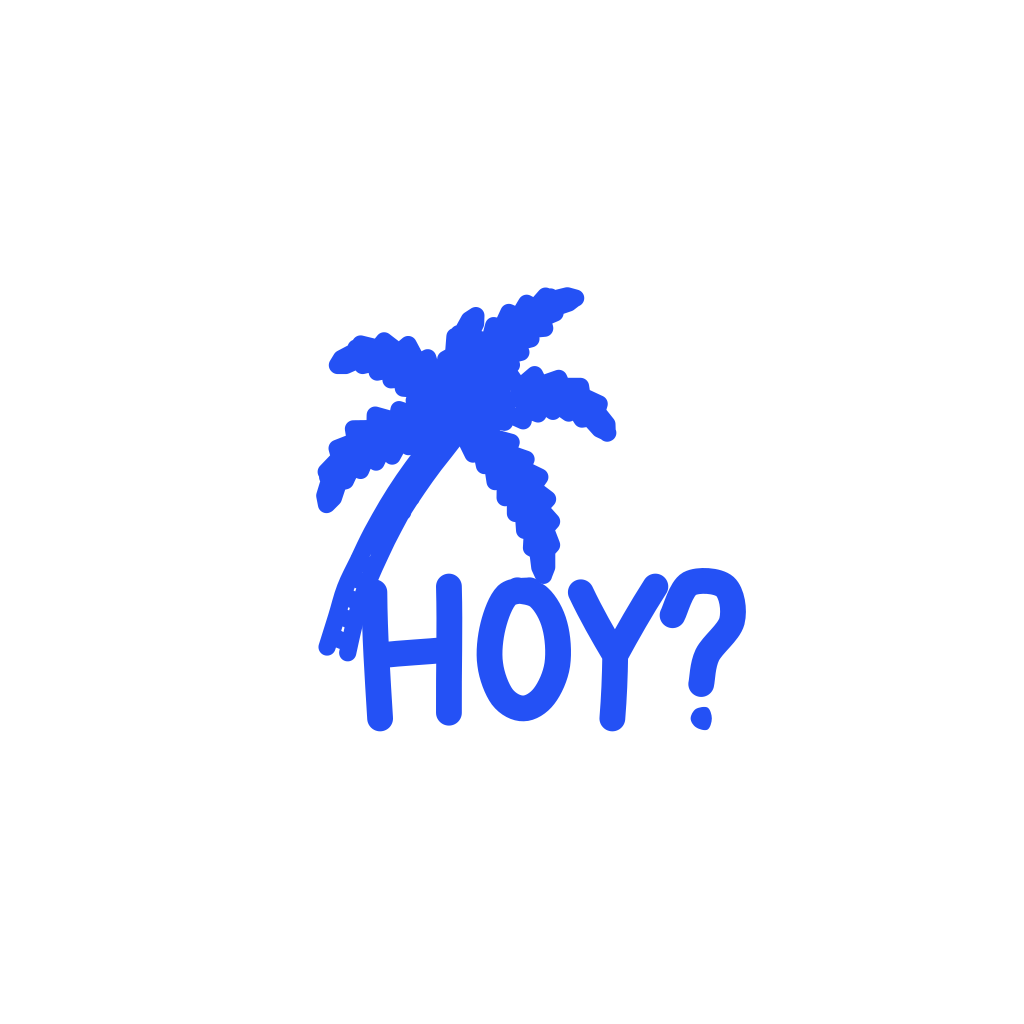
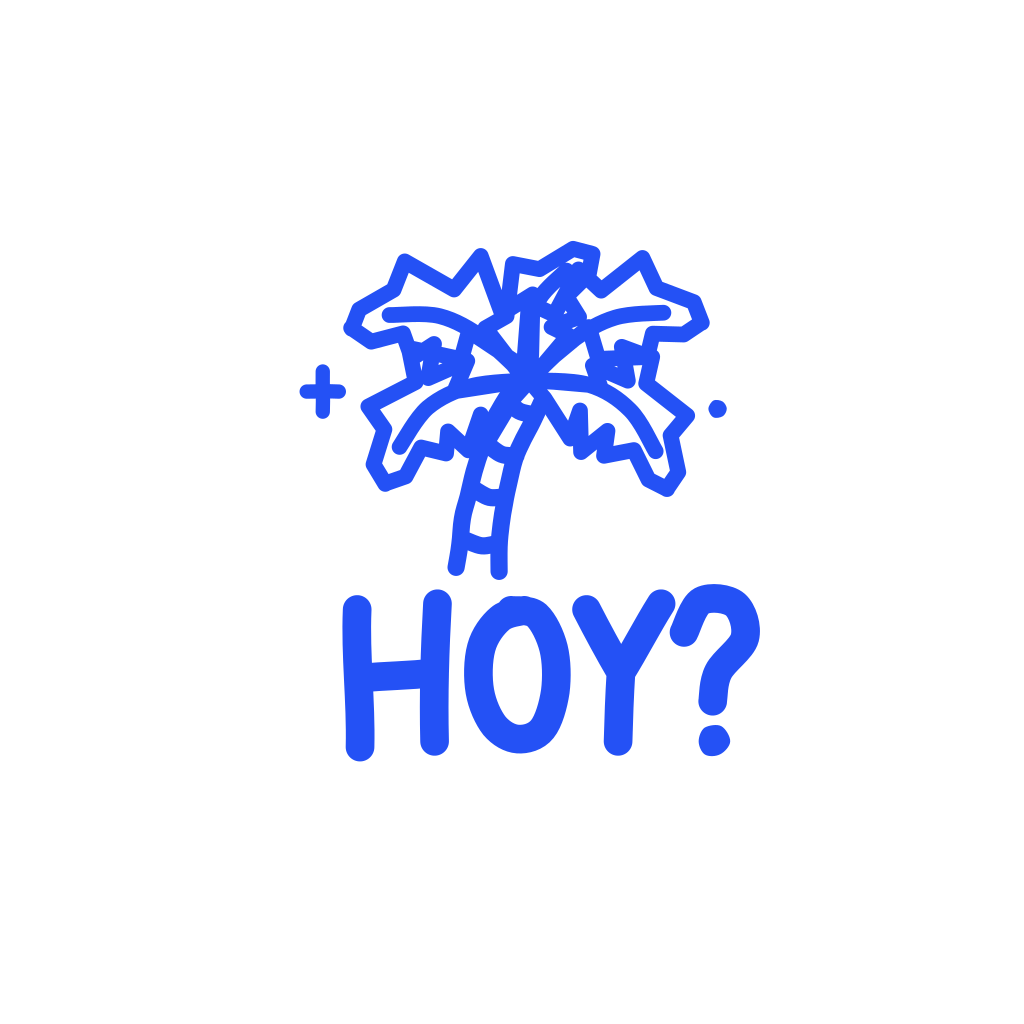
wip(pa-donde-vamos): tab screens, illustrations in progress
Claude-Session: https://claude.ai/code/session_01VeshiQs7kbajqoLMa3ezra

Changed region(s): [[0.2812, 0.2188, 0.75, 0.75]]

diff --git a/pa-donde-vamos/src/app/inspiration.tsx b/pa-donde-vamos/src/app/inspiration.tsx
@@ -1,11 +1,67 @@
-import { Screen } from '@/components/Screen';
-import { AppText } from '@/components/Typography';
+import { router } from 'expo-router';
+import { useEffect, useRef } from 'react';
+import { Animated, Platform, StyleSheet, View } from 'react-native';
 
-// TODO: implement screen "inspiration"
+import { Button } from '@/components/Button';
+import { Asterisk, PalmSunScene } from '@/components/illustrations';
+import { Screen } from '@/components/Screen';
+import { Handwritten } from '@/components/Typography';
+
+const LINES: { text: string; indent: number }[] = [
+  { text: 'Caracas', indent: 0 },
+  { text: 'Siempre', indent: 14 },
+  { text: 'es una', indent: 6 },
+  { text: 'buena', indent: 30 },
+  { text: 'idea', indent: 60 },
+];
+
 export default function InspirationScreen() {
+  const appear = useRef(new Animated.Value(0)).current;
+
+  useEffect(() => {
+    Animated.timing(appear, { toValue: 1, duration: 600, useNativeDriver: Platform.OS !== 'web' }).start();
+  }, [appear]);
+
   return (
-    <Screen>
-      <AppText variant="h1">inspiration</AppText>
+    <Screen
+      contentStyle={styles.content}
+      footer={
+        <>
+          <Button label="Ver más planes" onPress={() => router.replace('/explore')} />
+          <Button label="Ir al inicio" variant="outline" onPress={() => router.replace('/')} />
+        </>
+      }>
+      <Animated.View
+        style={{
+          opacity: appear,
+          transform: [{ translateY: appear.interpolate({ inputRange: [0, 1], outputRange: [16, 0] }) }],
+        }}>
+        <PalmSunScene width={300} style={styles.scene} />
+      </Animated.View>
+
+      <View style={styles.block} accessible accessibilityLabel="Caracas siempre es una buena idea">
+        <View style={styles.lines}>
+          {LINES.map((l) => (
+            <Handwritten key={l.text} size={50} rotate={-6} style={[styles.line, { marginLeft: l.indent }]}>
+              {l.text}
+            </Handwritten>
+          ))}
+        </View>
+        <Asterisk width={34} style={styles.astRight} />
+        <Asterisk width={26} style={styles.astLeft} />
+        <Asterisk width={40} style={styles.astBottom} />
+      </View>
     </Screen>
   );
 }
+
+const styles = StyleSheet.create({
+  content: { alignItems: 'center', justifyContent: 'center', paddingTop: 24 },
+  scene: { alignSelf: 'center' },
+  block: { width: 300, marginTop: 8, paddingBottom: 8 },
+  lines: { paddingLeft: 30 },
+  line: { letterSpacing: 2, lineHeight: 54 },
+  astRight: { position: 'absolute', right: 0, top: 98 },
+  astLeft: { position: 'absolute', left: 4, bottom: 18 },
+  astBottom: { position: 'absolute', right: 8, bottom: 6 },
+});

diff --git a/pa-donde-vamos/src/components/illustrations/scenes.ts b/pa-donde-vamos/src/components/illustrations/scenes.ts
@@ -378,24 +378,46 @@ export const leafArt = sketch(48, 48, 17, (p) => {
 
 export const iconArt = sketch(200, 200, 29, (p) => {
   p.w(6);
-  p.push(80, 70, 0, 0.62);
-  caracasPalm(p);
+  trunk(
+    p,
+    [
+      [88, 120],
+      [90, 100],
+      [96, 78],
+      [106, 58],
+    ],
+    15,
+    11,
+    4,
+  );
+  const C: Pt = [106, 54];
+  const f = (pts: Pt[], w: number, teeth: number) => serratedFrond(p, [C, ...pts], w, teeth);
+  p.w(5.5);
+  f([[124, 38], [146, 30], [166, 34]], 26, 4);
+  f([[128, 56], [146, 70], [154, 92]], 24, 4);
+  f([[88, 38], [66, 30], [44, 36]], 26, 4);
+  f([[86, 56], [66, 68], [56, 90]], 24, 4);
+  f([[106, 34], [114, 20], [128, 10]], 18, 3);
+  p.w(5);
+  p.push(34, 58);
+  sparkle(p, 7);
   p.pop();
-  p.w(9);
+  p.dot(172, 64, 3.2);
+  p.w(10);
   // H
-  p.line(52, 128, 54, 172).line(78, 126, 78, 170).line(54, 150, 78, 148);
+  p.line(46, 134, 47, 182).line(74, 132, 73, 180).line(47, 158, 73, 156);
   // O
-  p.oval(104, 148, 12, 21, { from: -100, to: 280 });
+  p.oval(102, 157, 13.5, 23, { from: -100, to: 280 });
   // Y
-  p.line(124, 128, 136, 150).line(150, 126, 136, 150).line(136, 150, 135, 172);
+  p.line(126, 134, 138, 156).line(152, 132, 138, 156).line(138, 156, 137, 180);
   // ?
   p.curve([
-    [156, 136],
-    [162, 125],
-    [174, 126],
-    [177, 138],
-    [168, 150],
-    [166, 160],
+    [160, 142],
+    [166, 131],
+    [178, 132],
+    [181, 144],
+    [172, 156],
+    [170, 166],
   ]);
-  p.dot(166, 172, 4);
+  p.dot(170, 180, 5.5);
 });
